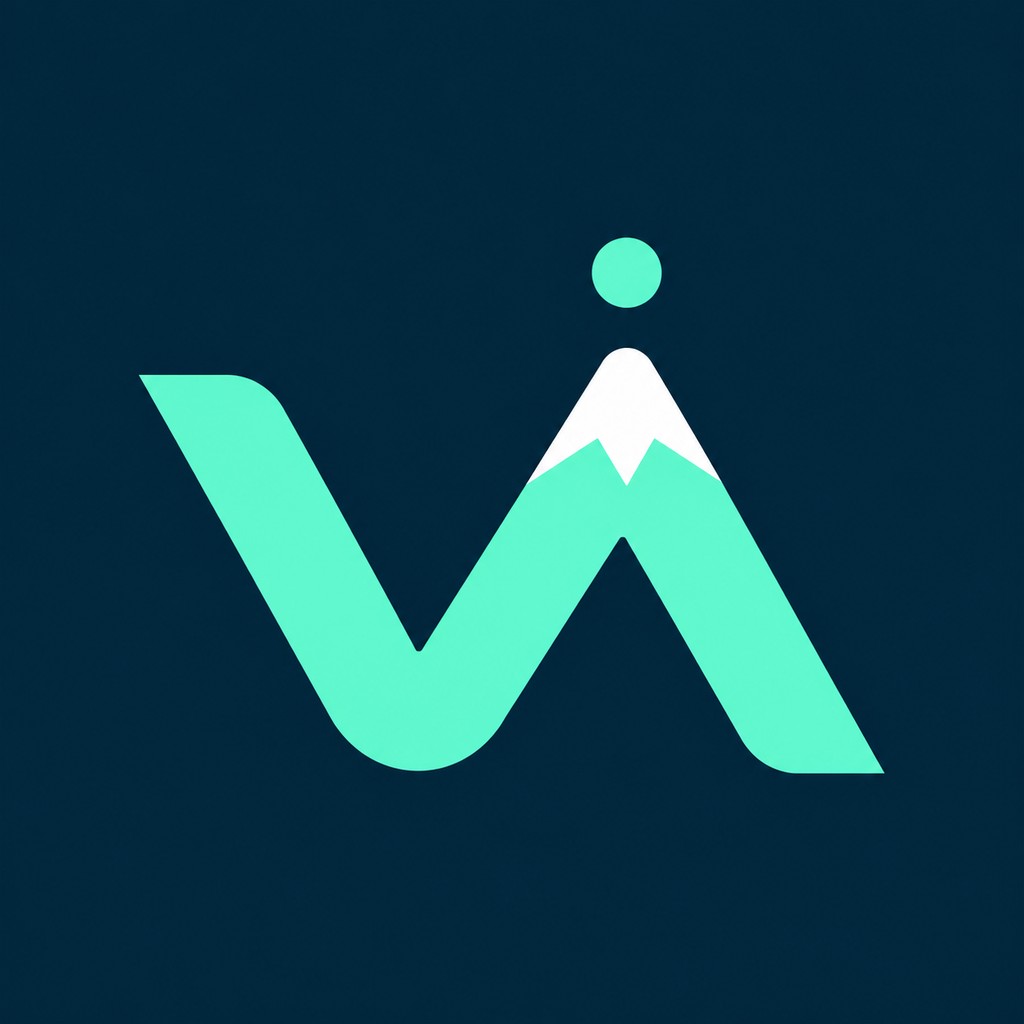
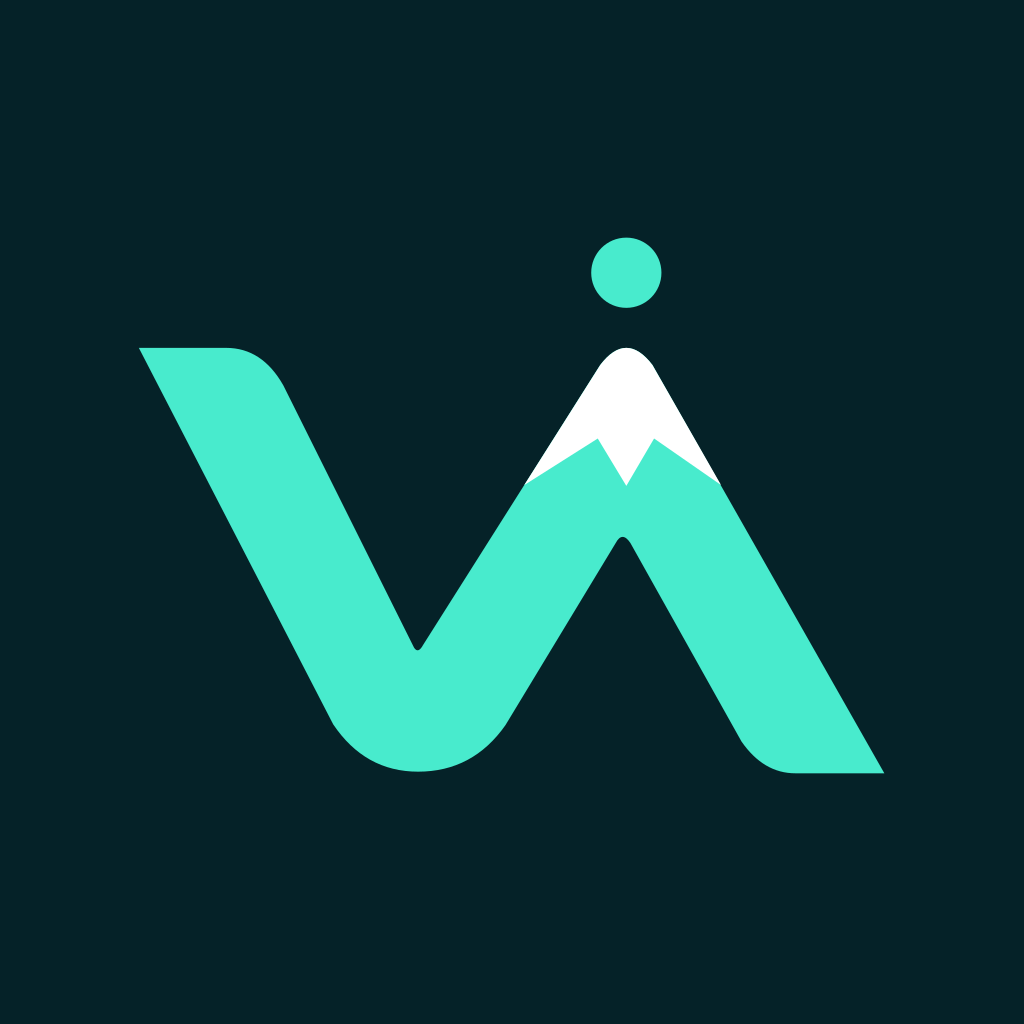
Align V arm with mountain summit across brand assets

Changed region(s): [[0.125, 0.3125, 0.875, 0.75], [0.5625, 0.2188, 0.6562, 0.3125], [0.625, 0.3438, 0.6562, 0.375]]

diff --git a/features.html b/features.html
@@ -3,10 +3,10 @@
 <head>
   <meta charset="utf-8"><meta name="viewport" content="width=device-width, initial-scale=1"><meta name="theme-color" content="#f2f0ea">
   <title>Features — Vantage</title><meta name="description" content="Explore the working Vantage features for nutrition, training, progress, iPad, and Apple Watch.">
-  <link rel="icon" href="assets/favicon.png?v=20261013"><link rel="stylesheet" href="style.css?v=20261014">
+  <link rel="icon" href="assets/favicon.png?v=20261018"><link rel="stylesheet" href="style.css?v=20261014">
 </head>
 <body>
-  <header class="site-header"><div class="container nav-container"><a href="index.html" class="logo" aria-label="Vantage home"><img src="assets/vantage-full-logo-dark.png?v=20261014" width="166" height="40" alt="Vantage"></a><button class="menu-toggle" type="button" aria-label="Open menu" aria-expanded="false" aria-controls="site-navigation"><svg viewBox="0 0 24 24" aria-hidden="true"><path d="M4 7h16M4 12h16M4 17h16"/></svg></button><nav class="nav-links" id="site-navigation" aria-label="Primary navigation"><a href="features.html" aria-current="page">Features</a><a href="about.html">Principles</a><a href="contact.html">Support</a><a href="mailto:support@vantage.support?subject=Vantage%20private%20beta" class="btn btn-primary">Request beta access</a></nav></div></header>
+  <header class="site-header"><div class="container nav-container"><a href="index.html" class="logo" aria-label="Vantage home"><img src="assets/vantage-full-logo-dark.png?v=20261018" width="166" height="40" alt="Vantage"></a><button class="menu-toggle" type="button" aria-label="Open menu" aria-expanded="false" aria-controls="site-navigation"><svg viewBox="0 0 24 24" aria-hidden="true"><path d="M4 7h16M4 12h16M4 17h16"/></svg></button><nav class="nav-links" id="site-navigation" aria-label="Primary navigation"><a href="features.html" aria-current="page">Features</a><a href="about.html">Principles</a><a href="contact.html">Support</a><a href="mailto:support@vantage.support?subject=Vantage%20private%20beta" class="btn btn-primary">Request beta access</a></nav></div></header>
   <main>
     <section class="page-hero container"><p class="kicker">Working in the current build</p><h1>Everything you need to keep a useful record.</h1><p>No speculative features here. This page covers what Vantage does today across iPhone, iPad, and Apple Watch.</p><nav class="anchor-nav" aria-label="Feature sections"><a href="#nutrition">Nutrition</a><a href="#training">Training</a><a href="#progress">Progress</a><a href="#devices">Apple devices</a><a href="#control">Data &amp; control</a></nav></section>
 
@@ -20,7 +20,7 @@
 
     <section class="section container control-section" id="control"><div class="section-index">05 / Data &amp; control</div><div class="section-heading"><p class="kicker">Local first</p><h2>The app remains useful without surrendering control.</h2><p>Core records work locally and an account is optional. Sign-in enables cloud sync and provider-backed features.</p></div><div class="capability-grid"><article><span>Privacy</span><h3>Permission by feature</h3><p>Camera, photos, microphone, speech, notifications, and health access remain tied to features you choose.</p></article><article><span>Portability</span><h3>Export your records</h3><p>Export supported nutrition, workout, body, and profile data from the app.</p></article><article><span>Accounts</span><h3>Delete when you’re done</h3><p>Clear local records or request account and cloud-data deletion from Vantage.</p></article><article><span>Appearance</span><h3>Make it yours</h3><p>Multiple visual themes, light and dark appearance, unit controls, reduced motion, and accessibility-aware states.</p></article><article><span>Sync</span><h3>Local use comes first</h3><p>Guest use stays on device; optional accounts add backup and multi-device restoration.</p></article><article><span>AI features</span><h3>Reviewable and separate</h3><p>Provider-backed tools require an account. Local workout and meal logging do not.</p></article></div></section>
   </main>
-  <footer><div class="container footer-grid"><div class="footer-brand"><a href="index.html" class="logo"><img src="assets/vantage-full-logo-dark.png?v=20261014" width="166" height="40" alt="Vantage"></a><p>A local-first training and nutrition record.</p></div><div class="footer-links"><h2>Product</h2><ul><li><a href="features.html">Features</a></li><li><a href="about.html">Principles</a></li><li><a href="mailto:support@vantage.support?subject=Vantage%20private%20beta">Private beta</a></li></ul></div><div class="footer-links"><h2>Support &amp; legal</h2><ul><li><a href="contact.html">Support</a></li><li><a href="privacy.html">Privacy Policy</a></li><li><a href="consumer-health-data.html">Consumer Health Data Notice</a></li><li><a href="terms.html">Terms of Service</a></li></ul></div></div><div class="container footer-bottom"><p>&copy; 2026 Vantage.</p><p>Built for iPhone, iPad, and Apple Watch.</p></div></footer>
+  <footer><div class="container footer-grid"><div class="footer-brand"><a href="index.html" class="logo"><img src="assets/vantage-full-logo-dark.png?v=20261018" width="166" height="40" alt="Vantage"></a><p>A local-first training and nutrition record.</p></div><div class="footer-links"><h2>Product</h2><ul><li><a href="features.html">Features</a></li><li><a href="about.html">Principles</a></li><li><a href="mailto:support@vantage.support?subject=Vantage%20private%20beta">Private beta</a></li></ul></div><div class="footer-links"><h2>Support &amp; legal</h2><ul><li><a href="contact.html">Support</a></li><li><a href="privacy.html">Privacy Policy</a></li><li><a href="consumer-health-data.html">Consumer Health Data Notice</a></li><li><a href="terms.html">Terms of Service</a></li></ul></div></div><div class="container footer-bottom"><p>&copy; 2026 Vantage.</p><p>Built for iPhone, iPad, and Apple Watch.</p></div></footer>
   <script src="script.js?v=20260927-1"></script>
 </body>
 </html>

diff --git a/index.html b/index.html
@@ -5,10 +5,10 @@
   <meta name="theme-color" content="#f2f0ea">
   <title>Vantage — Training and nutrition in one record</title>
   <meta name="description" content="Vantage is a local-first training and nutrition app for iPhone, iPad, and Apple Watch. Log workouts, meals, body progress, and see what changed.">
-  <link rel="icon" href="assets/favicon.png?v=20261013"><link rel="stylesheet" href="style.css?v=20261014">
+  <link rel="icon" href="assets/favicon.png?v=20261018"><link rel="stylesheet" href="style.css?v=20261014">
 </head>
 <body>
-  <header class="site-header"><div class="container nav-container"><a href="index.html" class="logo" aria-label="Vantage home"><img src="assets/vantage-full-logo-dark.png?v=20261014" width="166" height="40" alt="Vantage"></a><button class="menu-toggle" type="button" aria-label="Open menu" aria-expanded="false" aria-controls="site-navigation"><svg viewBox="0 0 24 24" aria-hidden="true"><path d="M4 7h16M4 12h16M4 17h16"/></svg></button><nav class="nav-links" id="site-navigation" aria-label="Primary navigation"><a href="features.html">Features</a><a href="about.html">Principles</a><a href="contact.html">Support</a><a href="mailto:support@vantage.support?subject=Vantage%20private%20beta" class="btn btn-primary">Request beta access</a></nav></div></header>
+  <header class="site-header"><div class="container nav-container"><a href="index.html" class="logo" aria-label="Vantage home"><img src="assets/vantage-full-logo-dark.png?v=20261018" width="166" height="40" alt="Vantage"></a><button class="menu-toggle" type="button" aria-label="Open menu" aria-expanded="false" aria-controls="site-navigation"><svg viewBox="0 0 24 24" aria-hidden="true"><path d="M4 7h16M4 12h16M4 17h16"/></svg></button><nav class="nav-links" id="site-navigation" aria-label="Primary navigation"><a href="features.html">Features</a><a href="about.html">Principles</a><a href="contact.html">Support</a><a href="mailto:support@vantage.support?subject=Vantage%20private%20beta" class="btn btn-primary">Request beta access</a></nav></div></header>
 
   <main>
     <section class="hero container">
@@ -54,7 +54,7 @@
     <section class="section container closing-section"><p class="kicker">Private beta</p><h2>Use it. Push on it. Tell us what gets in the way.</h2><p>Vantage is still being tested. Beta feedback goes directly to the person building it.</p><div class="hero-actions"><a href="mailto:support@vantage.support?subject=Vantage%20private%20beta" class="btn btn-primary">Request beta access</a><a href="contact.html" class="text-link">Contact support →</a></div></section>
   </main>
 
-  <footer><div class="container footer-grid"><div class="footer-brand"><a href="index.html" class="logo"><img src="assets/vantage-full-logo-dark.png?v=20261014" width="166" height="40" alt="Vantage"></a><p>A local-first training and nutrition record.</p></div><div class="footer-links"><h2>Product</h2><ul><li><a href="features.html">Features</a></li><li><a href="about.html">Principles</a></li><li><a href="mailto:support@vantage.support?subject=Vantage%20private%20beta">Private beta</a></li></ul></div><div class="footer-links"><h2>Support &amp; legal</h2><ul><li><a href="contact.html">Support</a></li><li><a href="privacy.html">Privacy Policy</a></li><li><a href="consumer-health-data.html">Consumer Health Data Notice</a></li><li><a href="terms.html">Terms of Service</a></li></ul></div></div><div class="container footer-bottom"><p>&copy; 2026 Vantage.</p><p>Built for iPhone, iPad, and Apple Watch.</p></div></footer>
+  <footer><div class="container footer-grid"><div class="footer-brand"><a href="index.html" class="logo"><img src="assets/vantage-full-logo-dark.png?v=20261018" width="166" height="40" alt="Vantage"></a><p>A local-first training and nutrition record.</p></div><div class="footer-links"><h2>Product</h2><ul><li><a href="features.html">Features</a></li><li><a href="about.html">Principles</a></li><li><a href="mailto:support@vantage.support?subject=Vantage%20private%20beta">Private beta</a></li></ul></div><div class="footer-links"><h2>Support &amp; legal</h2><ul><li><a href="contact.html">Support</a></li><li><a href="privacy.html">Privacy Policy</a></li><li><a href="consumer-health-data.html">Consumer Health Data Notice</a></li><li><a href="terms.html">Terms of Service</a></li></ul></div></div><div class="container footer-bottom"><p>&copy; 2026 Vantage.</p><p>Built for iPhone, iPad, and Apple Watch.</p></div></footer>
   <script src="script.js?v=20260927-1"></script>
 </body>
 </html>

diff --git a/about.html b/about.html
@@ -5,13 +5,13 @@
   <meta name="viewport" content="width=device-width, initial-scale=1">
   <title>About — Vantage</title>
   <meta name="description" content="Why Vantage brings training, nutrition, and progress into one local-first app.">
-  <link rel="icon" href="assets/favicon.png?v=20261013">
+  <link rel="icon" href="assets/favicon.png?v=20261018">
   <link rel="stylesheet" href="style.css?v=20261014">
 </head>
 <body>
   <header class="site-header">
     <div class="container nav-container">
-      <a href="index.html" class="logo" aria-label="Vantage home"><img src="assets/vantage-full-logo-dark.png?v=20261014" width="166" height="40" alt="Vantage"></a>
+      <a href="index.html" class="logo" aria-label="Vantage home"><img src="assets/vantage-full-logo-dark.png?v=20261018" width="166" height="40" alt="Vantage"></a>
       <button class="menu-toggle" type="button" aria-label="Open menu" aria-expanded="false" aria-controls="site-navigation"><svg viewBox="0 0 24 24" aria-hidden="true"><path d="M4 7h16M4 12h16M4 17h16"/></svg></button>
       <nav class="nav-links" id="site-navigation" aria-label="Primary navigation"><a href="features.html">Features</a><a href="about.html" aria-current="page">Principles</a><a href="contact.html">Support</a><a href="mailto:support@vantage.support?subject=Vantage%20private%20beta" class="btn btn-primary">Request beta access</a></nav>
     </div>
@@ -42,7 +42,7 @@
     </section>
   </main>
   <footer>
-    <div class="container footer-grid"><div class="footer-brand"><a href="index.html" class="logo"><img src="assets/vantage-full-logo-dark.png?v=20261014" width="166" height="40" alt="Vantage"></a><p>A local-first training and nutrition record.</p></div><div class="footer-links"><h2>Product</h2><ul><li><a href="features.html">Features</a></li><li><a href="about.html">Principles</a></li><li><a href="mailto:support@vantage.support?subject=Vantage%20private%20beta">Private beta</a></li></ul></div><div class="footer-links"><h2>Support &amp; legal</h2><ul><li><a href="contact.html">Support</a></li><li><a href="privacy.html">Privacy Policy</a></li><li><a href="consumer-health-data.html">Consumer Health Data Notice</a></li><li><a href="terms.html">Terms of Service</a></li></ul></div></div>
+    <div class="container footer-grid"><div class="footer-brand"><a href="index.html" class="logo"><img src="assets/vantage-full-logo-dark.png?v=20261018" width="166" height="40" alt="Vantage"></a><p>A local-first training and nutrition record.</p></div><div class="footer-links"><h2>Product</h2><ul><li><a href="features.html">Features</a></li><li><a href="about.html">Principles</a></li><li><a href="mailto:support@vantage.support?subject=Vantage%20private%20beta">Private beta</a></li></ul></div><div class="footer-links"><h2>Support &amp; legal</h2><ul><li><a href="contact.html">Support</a></li><li><a href="privacy.html">Privacy Policy</a></li><li><a href="consumer-health-data.html">Consumer Health Data Notice</a></li><li><a href="terms.html">Terms of Service</a></li></ul></div></div>
     <div class="container footer-bottom"><p>&copy; 2026 Vantage. All rights reserved.</p><p>Built for iPhone, iPad, and Apple Watch.</p></div>
   </footer>
   <script src="script.js?v=20260927-1"></script>

diff --git a/contact.html b/contact.html
@@ -5,13 +5,13 @@
   <meta name="viewport" content="width=device-width, initial-scale=1">
   <title>Support — Vantage</title>
   <meta name="description" content="Contact Vantage support or request access to the private beta.">
-  <link rel="icon" href="assets/favicon.png?v=20261013">
+  <link rel="icon" href="assets/favicon.png?v=20261018">
   <link rel="stylesheet" href="style.css?v=20261014">
 </head>
 <body>
   <header class="site-header">
     <div class="container nav-container">
-      <a href="index.html" class="logo" aria-label="Vantage home"><img src="assets/vantage-full-logo-dark.png?v=20261014" width="166" height="40" alt="Vantage"></a>
+      <a href="index.html" class="logo" aria-label="Vantage home"><img src="assets/vantage-full-logo-dark.png?v=20261018" width="166" height="40" alt="Vantage"></a>
       <button class="menu-toggle" type="button" aria-label="Open menu" aria-expanded="false" aria-controls="site-navigation"><svg viewBox="0 0 24 24" aria-hidden="true"><path d="M4 7h16M4 12h16M4 17h16"/></svg></button>
       <nav class="nav-links" id="site-navigation" aria-label="Primary navigation"><a href="features.html">Features</a><a href="about.html">Principles</a><a href="contact.html" aria-current="page">Support</a><a href="mailto:support@vantage.support?subject=Vantage%20private%20beta" class="btn btn-primary">Request beta access</a></nav>
     </div>
@@ -35,7 +35,7 @@
     </section>
   </main>
   <footer>
-    <div class="container footer-grid"><div class="footer-brand"><a href="index.html" class="logo"><img src="assets/vantage-full-logo-dark.png?v=20261014" width="166" height="40" alt="Vantage"></a><p>A local-first training and nutrition record.</p></div><div class="footer-links"><h2>Product</h2><ul><li><a href="features.html">Features</a></li><li><a href="about.html">Principles</a></li><li><a href="mailto:support@vantage.support?subject=Vantage%20private%20beta">Private beta</a></li></ul></div><div class="footer-links"><h2>Support &amp; legal</h2><ul><li><a href="contact.html">Support</a></li><li><a href="privacy.html">Privacy Policy</a></li><li><a href="consumer-health-data.html">Consumer Health Data Notice</a></li><li><a href="terms.html">Terms of Service</a></li></ul></div></div>
+    <div class="container footer-grid"><div class="footer-brand"><a href="index.html" class="logo"><img src="assets/vantage-full-logo-dark.png?v=20261018" width="166" height="40" alt="Vantage"></a><p>A local-first training and nutrition record.</p></div><div class="footer-links"><h2>Product</h2><ul><li><a href="features.html">Features</a></li><li><a href="about.html">Principles</a></li><li><a href="mailto:support@vantage.support?subject=Vantage%20private%20beta">Private beta</a></li></ul></div><div class="footer-links"><h2>Support &amp; legal</h2><ul><li><a href="contact.html">Support</a></li><li><a href="privacy.html">Privacy Policy</a></li><li><a href="consumer-health-data.html">Consumer Health Data Notice</a></li><li><a href="terms.html">Terms of Service</a></li></ul></div></div>
     <div class="container footer-bottom"><p>&copy; 2026 Vantage. All rights reserved.</p><p>Built for iPhone, iPad, and Apple Watch.</p></div>
   </footer>
   <script src="script.js?v=20260927-1"></script>

diff --git a/consumer-health-data.html b/consumer-health-data.html
@@ -5,14 +5,14 @@
   <meta name="viewport" content="width=device-width, initial-scale=1">
   <title>Consumer Health Data Notice — Vantage</title>
   <meta name="description" content="The current Vantage Consumer Health Data Privacy Notice.">
-  <link rel="icon" href="assets/favicon.png?v=20261013">
+  <link rel="icon" href="assets/favicon.png?v=20261018">
   <link rel="stylesheet" href="style.css?v=20261014">
 </head>
 <body>
 
   <header class="site-header">
     <div class="container nav-container">
-      <a href="index.html" class="logo" aria-label="Vantage home"><img src="assets/vantage-full-logo-dark.png?v=20261014" width="166" height="40" alt="Vantage"></a>
+      <a href="index.html" class="logo" aria-label="Vantage home"><img src="assets/vantage-full-logo-dark.png?v=20261018" width="166" height="40" alt="Vantage"></a>
       <button class="menu-toggle" type="button" aria-label="Open menu" aria-expanded="false" aria-controls="site-navigation"><svg viewBox="0 0 24 24" aria-hidden="true"><path d="M4 7h16M4 12h16M4 17h16"/></svg></button>
       <nav class="nav-links" id="site-navigation" aria-label="Primary navigation">
         <a href="features.html">Features</a><a href="about.html">Principles</a><a href="contact.html">Support</a>
@@ -49,7 +49,7 @@
 
   <footer>
     <div class="container footer-grid">
-      <div class="footer-brand"><a href="index.html" class="logo"><img src="assets/vantage-full-logo-dark.png?v=20261014" width="166" height="40" alt="Vantage"></a><p>A local-first training and nutrition record.</p></div>
+      <div class="footer-brand"><a href="index.html" class="logo"><img src="assets/vantage-full-logo-dark.png?v=20261018" width="166" height="40" alt="Vantage"></a><p>A local-first training and nutrition record.</p></div>
       <div class="footer-links"><h2>Product</h2><ul><li><a href="features.html">Features</a></li><li><a href="about.html">Principles</a></li><li><a href="mailto:support@vantage.support?subject=Vantage%20private%20beta">Private beta</a></li></ul></div>
       <div class="footer-links"><h2>Support &amp; legal</h2><ul><li><a href="contact.html">Support</a></li><li><a href="privacy.html">Privacy Policy</a></li><li><a href="consumer-health-data.html">Consumer Health Data Notice</a></li><li><a href="terms.html">Terms of Service</a></li></ul></div>
     </div>

diff --git a/terms.html b/terms.html
@@ -5,14 +5,14 @@
   <meta name="viewport" content="width=device-width, initial-scale=1">
   <title>Terms of Service — Vantage</title>
   <meta name="description" content="The current Vantage Terms of Service.">
-  <link rel="icon" href="assets/favicon.png?v=20261013">
+  <link rel="icon" href="assets/favicon.png?v=20261018">
   <link rel="stylesheet" href="style.css?v=20261014">
 </head>
 <body>
 
   <header class="site-header">
     <div class="container nav-container">
-      <a href="index.html" class="logo" aria-label="Vantage home"><img src="assets/vantage-full-logo-dark.png?v=20261014" width="166" height="40" alt="Vantage"></a>
+      <a href="index.html" class="logo" aria-label="Vantage home"><img src="assets/vantage-full-logo-dark.png?v=20261018" width="166" height="40" alt="Vantage"></a>
       <button class="menu-toggle" type="button" aria-label="Open menu" aria-expanded="false" aria-controls="site-navigation"><svg viewBox="0 0 24 24" aria-hidden="true"><path d="M4 7h16M4 12h16M4 17h16"/></svg></button>
       <nav class="nav-links" id="site-navigation" aria-label="Primary navigation">
         <a href="features.html">Features</a><a href="about.html">Principles</a><a href="contact.html">Support</a>
@@ -79,7 +79,7 @@
 
   <footer>
     <div class="container footer-grid">
-      <div class="footer-brand"><a href="index.html" class="logo"><img src="assets/vantage-full-logo-dark.png?v=20261014" width="166" height="40" alt="Vantage"></a><p>A local-first training and nutrition record.</p></div>
+      <div class="footer-brand"><a href="index.html" class="logo"><img src="assets/vantage-full-logo-dark.png?v=20261018" width="166" height="40" alt="Vantage"></a><p>A local-first training and nutrition record.</p></div>
       <div class="footer-links"><h2>Product</h2><ul><li><a href="features.html">Features</a></li><li><a href="about.html">Principles</a></li><li><a href="mailto:support@vantage.support?subject=Vantage%20private%20beta">Private beta</a></li></ul></div>
       <div class="footer-links"><h2>Support &amp; legal</h2><ul><li><a href="contact.html">Support</a></li><li><a href="privacy.html">Privacy Policy</a></li><li><a href="consumer-health-data.html">Consumer Health Data Notice</a></li><li><a href="terms.html">Terms of Service</a></li></ul></div>
     </div>

diff --git a/privacy.html b/privacy.html
@@ -5,14 +5,14 @@
   <meta name="viewport" content="width=device-width, initial-scale=1">
   <title>Privacy Policy — Vantage</title>
   <meta name="description" content="The current Vantage Privacy Policy.">
-  <link rel="icon" href="assets/favicon.png?v=20261013">
+  <link rel="icon" href="assets/favicon.png?v=20261018">
   <link rel="stylesheet" href="style.css?v=20261014">
 </head>
 <body>
 
   <header class="site-header">
     <div class="container nav-container">
-      <a href="index.html" class="logo" aria-label="Vantage home"><img src="assets/vantage-full-logo-dark.png?v=20261014" width="166" height="40" alt="Vantage"></a>
+      <a href="index.html" class="logo" aria-label="Vantage home"><img src="assets/vantage-full-logo-dark.png?v=20261018" width="166" height="40" alt="Vantage"></a>
       <button class="menu-toggle" type="button" aria-label="Open menu" aria-expanded="false" aria-controls="site-navigation"><svg viewBox="0 0 24 24" aria-hidden="true"><path d="M4 7h16M4 12h16M4 17h16"/></svg></button>
       <nav class="nav-links" id="site-navigation" aria-label="Primary navigation">
         <a href="features.html">Features</a><a href="about.html">Principles</a><a href="contact.html">Support</a>
@@ -62,7 +62,7 @@
 
   <footer>
     <div class="container footer-grid">
-      <div class="footer-brand"><a href="index.html" class="logo"><img src="assets/vantage-full-logo-dark.png?v=20261014" width="166" height="40" alt="Vantage"></a><p>A local-first training and nutrition record.</p></div>
+      <div class="footer-brand"><a href="index.html" class="logo"><img src="assets/vantage-full-logo-dark.png?v=20261018" width="166" height="40" alt="Vantage"></a><p>A local-first training and nutrition record.</p></div>
       <div class="footer-links"><h2>Product</h2><ul><li><a href="features.html">Features</a></li><li><a href="about.html">Principles</a></li><li><a href="mailto:support@vantage.support?subject=Vantage%20private%20beta">Private beta</a></li></ul></div>
       <div class="footer-links"><h2>Support &amp; legal</h2><ul><li><a href="contact.html">Support</a></li><li><a href="privacy.html">Privacy Policy</a></li><li><a href="consumer-health-data.html">Consumer Health Data Notice</a></li><li><a href="terms.html">Terms of Service</a></li></ul></div>
     </div>
